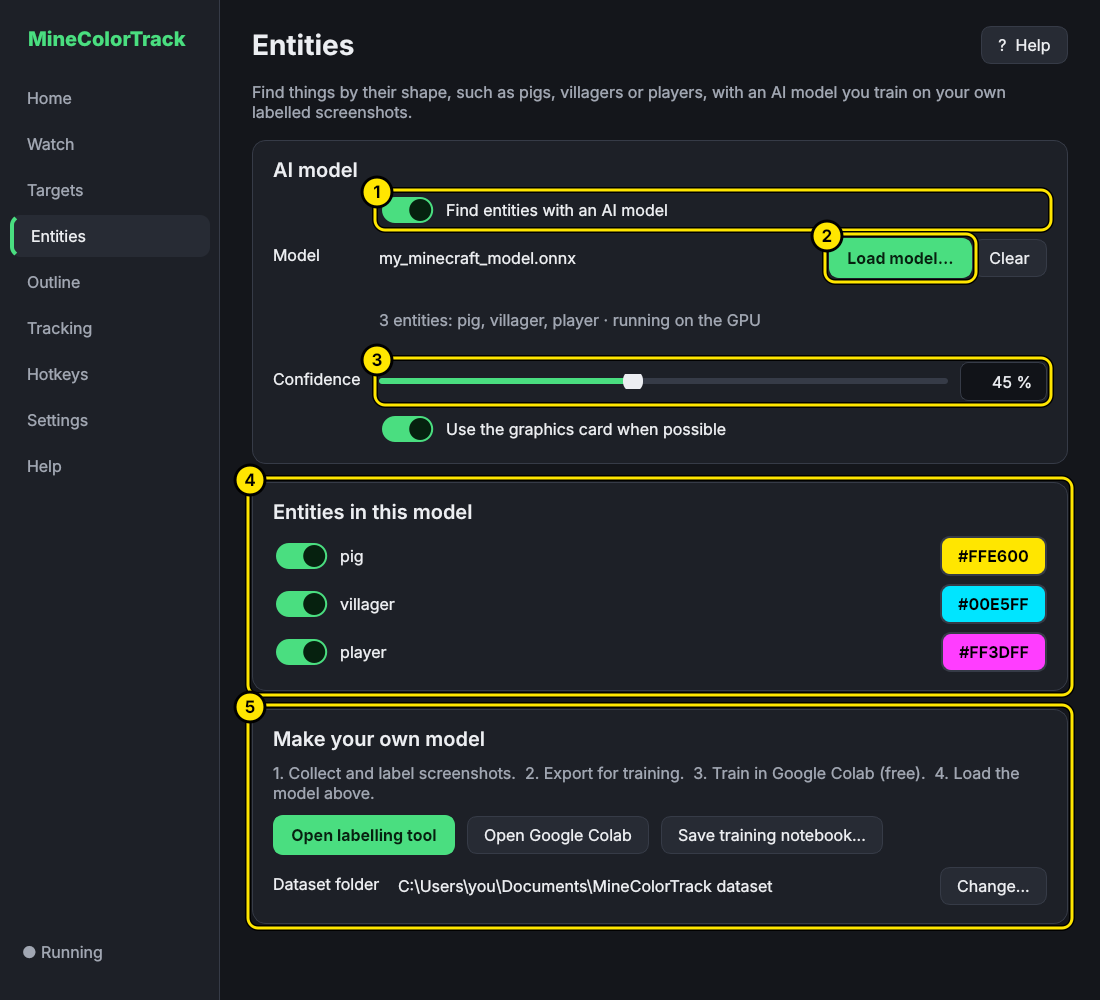
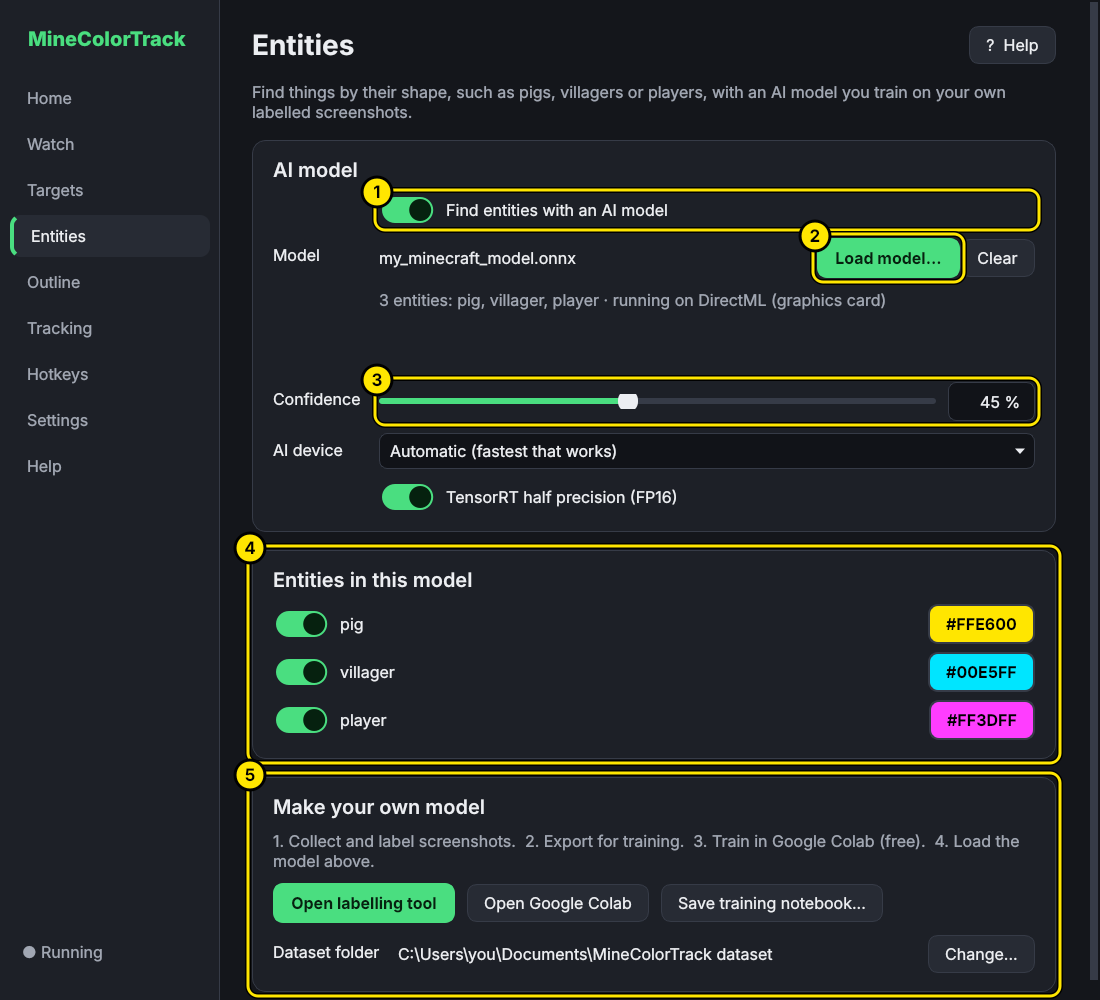
Show the AI device row in the Help picture; hide the empty timings line
The Entities help picture now includes AI device and TensorRT FP16, and the
help image script passes the new AI state. The Home timings readout stays
hidden until there are numbers to show.

Claude-Session: https://claude.ai/code/session_01PX75SyW8m8QKGi5PrGYV6t

Changed region(s): [[0.2164, 0.0, 1.0, 1.0], [0.9273, 0.186, 0.9582, 0.248]]

diff --git a/colorassist/panel.py b/colorassist/panel.py
@@ -284,6 +284,7 @@ class Panel(QMainWindow):
         st.addWidget(self.status)
         self.timings_label = label("", "muted")
         self.timings_label.setToolTip(tip("timings"))
+        self.timings_label.hide()
         self._timings_at = 0.0
         st.addWidget(self.timings_label)
         row.addLayout(st, 1)
@@ -1197,6 +1198,7 @@ class Panel(QMainWindow):
         if not running:
             self.status.setText("Press Start, then click back into your game.")
             self.timings_label.setText("")
+            self.timings_label.hide()
             self._refresh_ai(None, None, None, None)
         self._emit_preview()
 
@@ -1237,6 +1239,7 @@ class Panel(QMainWindow):
         self._timings_at = now
         parts = ["%s %.1f" % (k, ms[k]) for k in engine.STAGES if k in ms]
         self.timings_label.setText("Time per frame (ms): " + " · ".join(parts) if parts else "")
+        self.timings_label.setVisible(bool(parts))
 
     def closeEvent(self, e):
         if self.cfg.display.close_to_tray:

diff --git a/packaging/make_help_images.py b/packaging/make_help_images.py
@@ -236,7 +236,7 @@ def main():
                     config.Entity("player", True, "#FF3DFF")]
     cfg.ai.dataset_dir = r"C:\Users\you\Documents\MineColorTrack dataset"
     panel.refresh_all()
-    panel._refresh_ai("GPU")
+    panel._refresh_ai("DirectML (graphics card)", None, None, None)
     panel.go("Entities")
     panel.resize(1100, 1000)
     settle(app)
